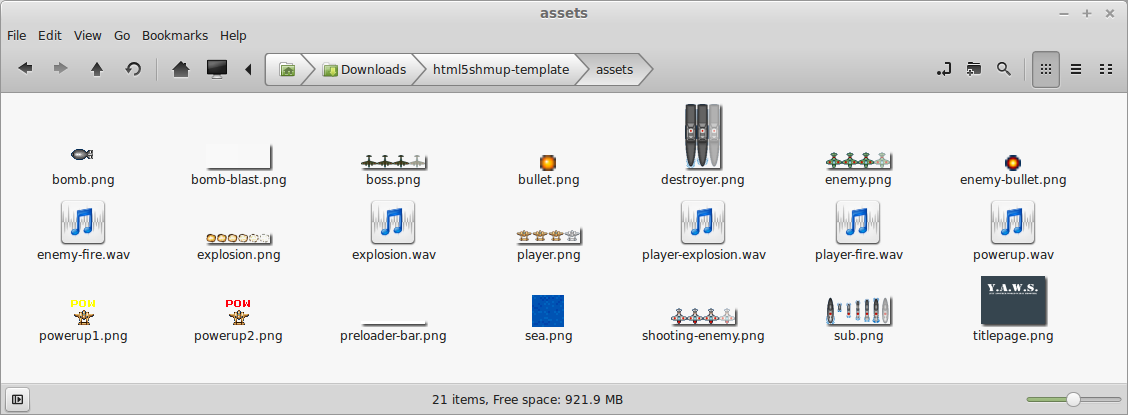
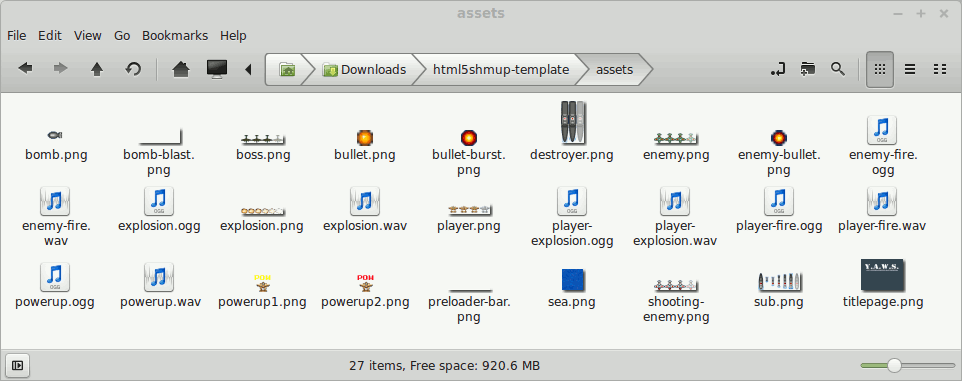
Fix typos/images

diff --git a/manuscript/deploy.md b/manuscript/deploy.md
@@ -11,7 +11,6 @@ Let's start by deleting the `preload()` function in `game.js`:
 {linenos=off,lang="js"}
 ~~~~~~~~
 BasicGame.Game.prototype = {
-
 {leanpub-start-delete}
   preload: function () {
     this.load.image('sea', 'assets/sea.png');
@@ -23,11 +22,14 @@ BasicGame.Game.prototype = {
     this.load.spritesheet('boss', 'assets/boss.png', 93, 75);
     this.load.spritesheet('explosion', 'assets/explosion.png', 32, 32);
     this.load.spritesheet('player', 'assets/player.png', 64, 64);
-    this.load.audio('explosion', ['assets/explosion.wav']);
-    this.load.audio('playerExplosion', ['assets/player-explosion.wav']);
-    this.load.audio('enemyFire', ['assets/enemy-fire.wav']);
-    this.load.audio('playerFire', ['assets/player-fire.wav']);
-    this.load.audio('powerUp', ['assets/powerup.wav']);
+    this.load.audio('explosion', ['assets/explosion.ogg', 'assets/explosion.wav']);
+    this.load.audio('playerExplosion',
+                    ['assets/player-explosion.ogg', 'assets/player-explosion.wav']);
+    this.load.audio('enemyFire', 
+                    ['assets/enemy-fire.ogg', 'assets/enemy-fire.wav']);
+    this.load.audio('playerFire', 
+                    ['assets/player-fire.ogg', 'assets/player-fire.wav']);
+    this.load.audio('powerUp', ['assets/powerup.ogg', 'assets/powerup.wav']);
   },
 {leanpub-end-delete}
  
@@ -127,6 +129,7 @@ Taking these into account, here are the steps to using Neocities to host your ga
     {linenos=off,lang="js"}
     ~~~~~~~~
       preload: function () {
+        this.load.image('titlepage', 'titlepage.png');
         this.load.image('sea', 'sea.png');
         this.load.image('bullet', 'bullet.png');
         this.load.image('enemyBullet', 'enemy-bullet.png');

diff --git a/manuscript/stages.md b/manuscript/stages.md
@@ -342,7 +342,7 @@ Add the call in `damageEnemy()` to a function that spawns power-ups:
 
 Here's the new function for spawning power-ups:
 
-{linenos=on,starting-line-number=412,lang="js"}
+{linenos=on,starting-line-number=414,lang="js"}
 ~~~~~~~~
   spawnPowerUp: function (enemy) {
     if (this.powerUpPool.countDead() === 0 || this.weaponLevel === 5) { 
@@ -394,7 +394,7 @@ Adding a collision handler:
 
 And a new function for incrementing the weapon level:
 
-{linenos=on,starting-line-number=389,lang="js"}
+{linenos=on,starting-line-number=391,lang="js"}
 ~~~~~~~~
   playerPowerUp: function (player, powerUp) {
     this.addToScore(powerUp.reward);
@@ -584,7 +584,7 @@ We then replace what happens when we reach 20,000 points from ending the game to
 
 Then the new `spawnBoss()` function:
 
-{linenos=on,starting-line-number=462,lang="js"}
+{linenos=on,starting-line-number=464,lang="js"}
 ~~~~~~~~
 {leanpub-start-insert}
   spawnBoss: function () {
@@ -683,7 +683,7 @@ We've saved the boss shooting code for last:
 {leanpub-start-insert}
     if (this.bossApproaching === false && this.boss.alive && 
         this.boss.nextShotAt < this.time.now &&
-        this.enemyBulletPool.countDead() > 9) {
+        this.enemyBulletPool.countDead() >= 10) {
 
       this.boss.nextShotAt = this.time.now + BasicGame.BOSS_SHOT_DELAY;
 

diff --git a/manuscript/mechanics.md b/manuscript/mechanics.md
@@ -209,7 +209,6 @@ First, let's create a new sprite group representing our lives at the top right c
 
 {linenos=on,starting-line-number=118,lang="js"}
 ~~~~~~~~
-{leanpub-start-insert}
   setupPlayerIcons: function () {
     this.lives = this.add.group();
     // calculate location of first life icon
@@ -220,9 +219,6 @@ First, let's create a new sprite group representing our lives at the top right c
       life.anchor.setTo(0.5, 0.5);
     }
   },
-{leanpub-end-insert}
-
-  setupText: function () {
 ~~~~~~~~
 
 For the life icons, we just used the player's sprite and scaled it down to half its size by modifying the `scale` property.

diff --git a/manuscript/refactoring.md b/manuscript/refactoring.md
@@ -301,7 +301,7 @@ We can also replace many hard-coded values with constants. If you open `boot.js`
     this.sea.autoScroll(0, 12);
 {leanpub-end-delete}
 {leanpub-start-insert}
-    this.sea.autoScroll(0, BasicGame.SEA_Y_SPEED);
+    this.sea.autoScroll(0, BasicGame.SEA_SCROLL_SPEED);
 {leanpub-end-insert}
   },
 ~~~~~~~~
